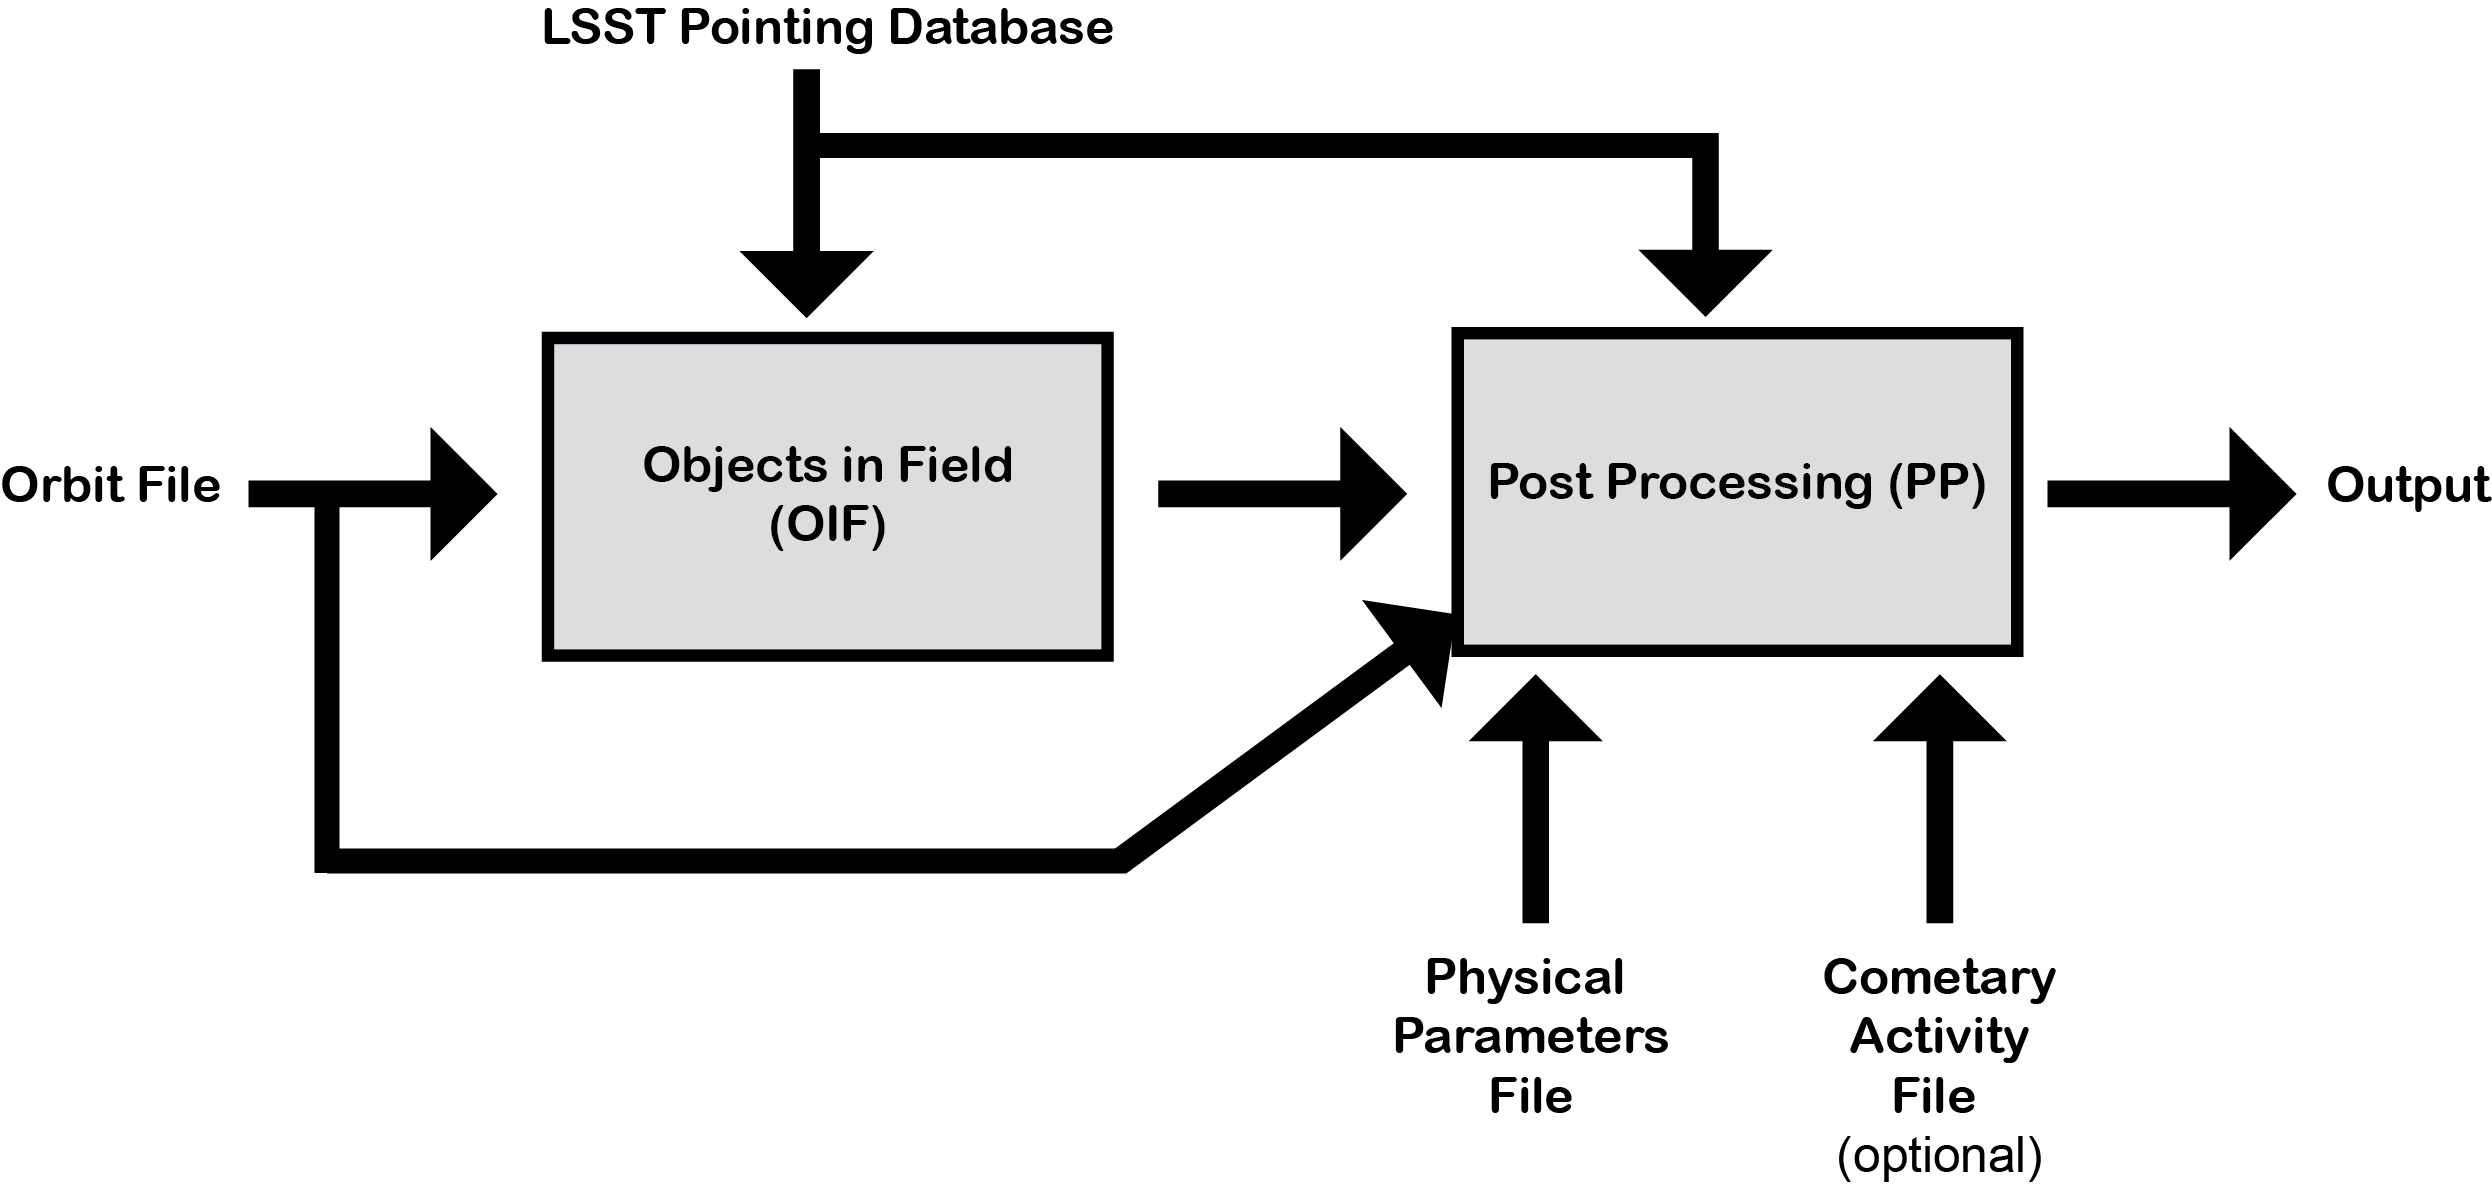
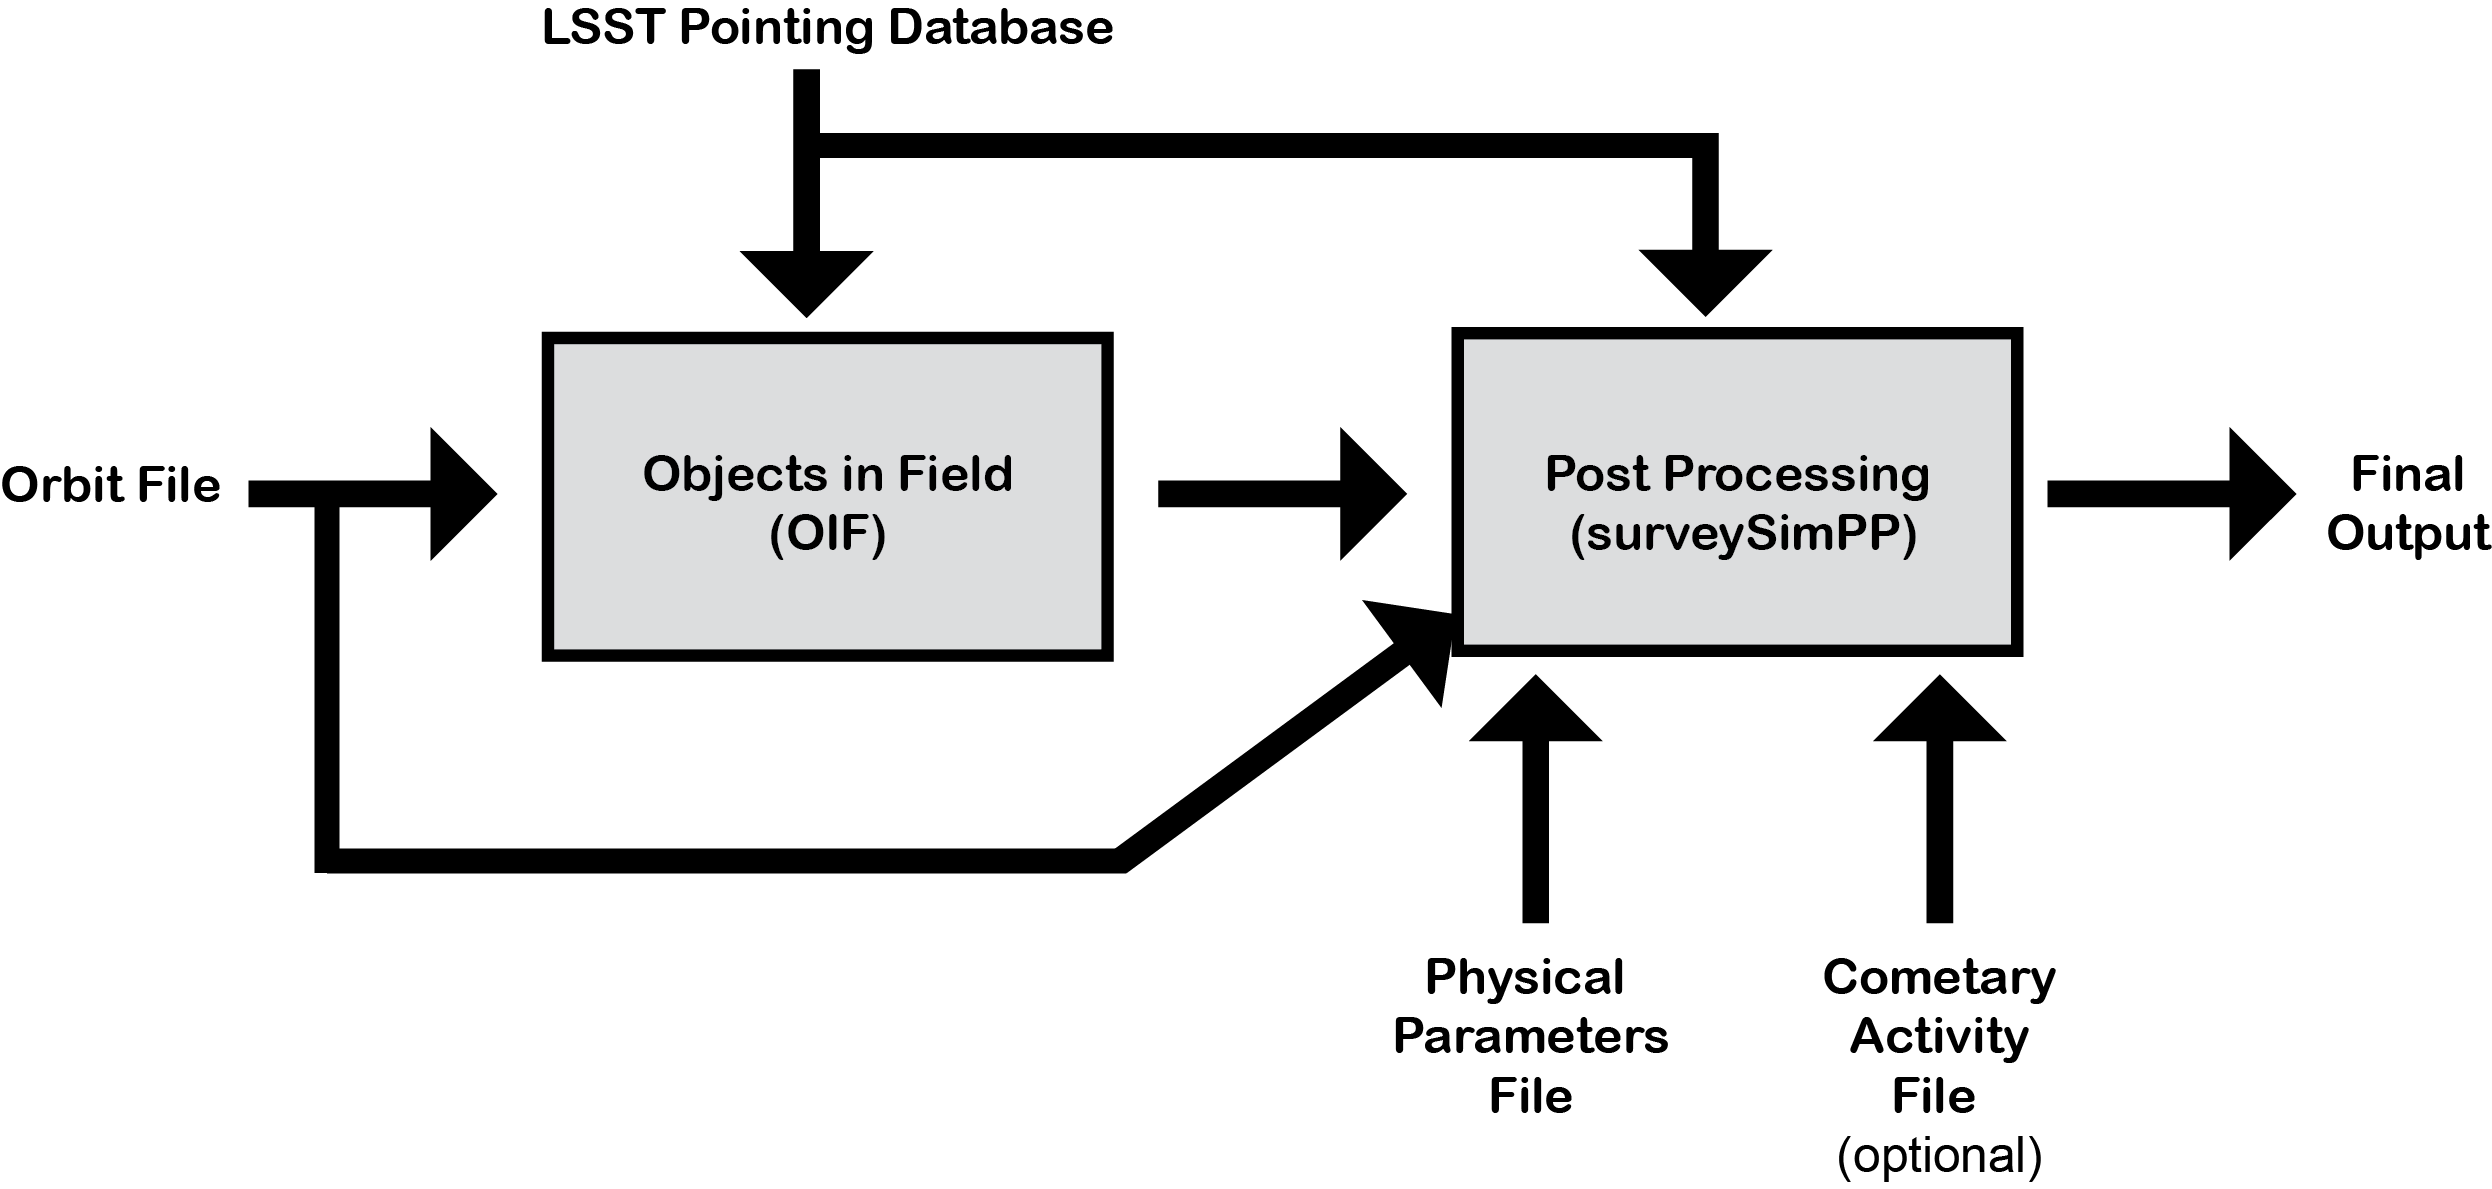
update documentation
update documentation

Changed region(s): [[0.5871, 0.3734, 0.8034, 0.4668], [0.2472, 0.3734, 0.4017, 0.4668], [0.927, 0.3734, 1.0, 0.4668]]

diff --git a/docs/installation.rst b/docs/installation.rst
@@ -3,38 +3,42 @@ Installation
 
 .. note::
    The surveySimPP and OIF python packages are currently pip installable. We hope to have conda installable versions in the near future.
-   
 
+Initial Steps
+-----------------------
+Create a directory to contain the OIF and Survey Simulator repos::
+
+   mkdir survey_sim_pp
+   cd survey_sim_pp
+
+Create a conda environment::
+
+   conda create -n survey_sim_pp -c conda-forge -c mjuric python=3.9 spiceypy openorb numpy pandas matplotlib spice-utils pip
+   conda activate survey_sim_pp
+
+.. tip::
+   We recommend using python version 3.9 with surveySimPP and OIF. This is the version of python we currently use to test our unit tests.
+
+   
+OIF
+-----------------------
 In order to use the Solar System survey simulator, we must first install 
 `Objects in Field <https://github.com/eggls6/objectsInField>`_. 
 This is used to generate candidate detections for an input population of 
 moving objects in a specified list of field pointings.
 
 OIF Requirements
------------------------
-* python 3
-* spiceypy python library
-* pyoorb python library
-* numpy
-* pandas
-* matplotlib
-* NAIF SPICE Utilities
-
-Initial Steps
-----------------------------------
-Create a directory to contain the OIF and Survey Simulator repos::
-
-   mkdir survey_sim_pp
-   cd survey_sim_pp
-   
-Create a conda environment::
-
-   conda create -n survey_sim_pp -c conda-forge -c mjuric python spiceypy openorb numpy pandas matplotlib spice-utils pip
-   conda activate survey_sim_pp
-   
+~~~~~~~~~~~~
+*  python 3 
+*  spiceypy 
+*  openorb 
+*  numpy 
+*  pandas 
+*  matplotlib 
+*  spice-utils
 
 Installing Objects in Field
-----------------------------------
+~~~~~~~~~~~~
 Make sure you are in the directory you want to contain the Survey Simulator repo in::
 
    cd survey_sim_pp
@@ -52,7 +56,7 @@ can be installed by running::
 
    ./bootstrap.sh
    
-. note::
+.. note::
    The bash script downloads and stores the SPICE files to oif/data/  
 
 Next, set up an editable (in-place) development environment::
@@ -72,28 +76,37 @@ If everything has installed correctly, the first few lines from this output will
    S100003Ua,992,59855.012720,232764749.248562,19.381,313.391309,0.093855,-14.189297,-0.001147,302701424.872,-141376977.611,-47258199.518,10.938,16.381,6.838,147675817.300,22607836.793,9798564.669,-5.071,27.085,11.641,22.025168,12.229,3.789
    S100005xa,40,59854.002209,311895722.264139,18.108,312.493375,0.024745,-10.868628,-0.020284,355032405.197,-205593003.122,-50029660.233,8.437,15.234,7.005,148124584.428,20259701.559,8780700.962,-4.542,27.134,11.674,17.656392,14.416,4.726
 
-
+Uninstalling OIF
+~~~~~~~~~~~~
 To uninstall::
 
    python setup.py develop -u
 
-Survey Simulator Requirements
+SurveySimPP
 -----------------------------
-* python 3
-* numpy
-* pandas
-* pytest
-* pytest-cov<2.6.0
-* coveralls
-* setuptools>=42
-* wheel
-* setuptools_scm>=3.4
-* astropy
-* scipy
-* sbpy
+
+Survey Simulator Requirements
+~~~~~~~~~~~~
+*  python 3
+*  numpy
+*  pandas
+*  pytest
+*  pytest-cov<2.6.0
+*  coveralls
+*  setuptools>=42
+*  wheel
+*  setuptools_scm>=3.4
+*  astropy
+*  scipy
+*  sbpy
+*  matplotlib
+
+
+.. note::
+   SurveySimPP currently requires the latest development version of the sbpy package. Pip will install that version of sbpy automatically.
 
 Installing the Survey Simulator Post Processing
-------------------------------------------------
+~~~~~~~~~~~~
 Make sure you are in the directory you want to contain the Survey Simulator repo in::
 
    cd survey_sim_pp
@@ -111,8 +124,7 @@ Next, ensure you are in the main Survey Simulator directory and set up an editab
 
 
 Testing the Installation
-------------------------------------------------
-
+~~~~~~~~~~~~
 To test that the installation was done correctly, run::
 
    surveySimPP -c ./PPConfig.ini -l ./data/test/testcolour.txt -o ./data/test/testorb.des -p ./data/test/oiftestoutput.txt
@@ -121,3 +133,11 @@ The output will appear in a csv file in .data/out (this pathway can be changed i
 The output should look like::
 
    This
+
+Uninstalling surveySimPP
+~~~~~~~~~~~~
+To uninstall::
+
+   python setup.py develop -u
+
+

diff --git a/docs/index.rst b/docs/index.rst
@@ -7,15 +7,17 @@ Welcome to Solar System Survey Simulator Post Processing's documentation!
 =========================================================================
 Welcome to the Solar System Survey Simulator Post Processing documentation. The survey simulator is a 
 Python package for studying Solar System object population statistics. It has been designed 
-with the `Vera C. Rubin Observatory Legacy Survey of Space and Time (LSST) <https://www.lsst.org>`_ in mind,
-but can be adapted to be used with any survey.
+with the `Vera C. Rubin Observatory Legacy Survey of Space and Time (LSST) <https://www.lsst.org>`_ in mind but can be adapted to be used with any survey.
 
 
 This documentation webpage contains an installation guide and an overview of how the survey simulator 
 works. Tutorials are provided which give examples on how to determine if an object is on a field of view, 
 if it is observable with LSST, and specific guides for near earth objects, Jupiter trojans, cometary objects etc.
  
- 
+.. seealso::
+   We have a summary paper (currently in prep) that provides and a broad summary of the software and with significant detail in the methodolgy behind in it. This documentation covers some of the same material but dives deeper into how to install and how to run simulations of what LSST would discover given a model population of synthetic Solar System bodies and a given pointing history for the survey.  
+
+
 
 .. toctree::
    :maxdepth: 2
@@ -39,11 +41,4 @@ if it is observable with LSST, and specific guides for near earth objects, Jupit
    :caption: Documentation:
 
    surveySimPP
-
-Indices and tables
-==================
-
-* :ref:`genindex`
-* :ref:`modindex`
-* :ref:`search`
 

diff --git a/docs/overview.rst b/docs/overview.rst
@@ -27,15 +27,16 @@ pointing database, before being passed into the survey simulator. Here the user 
 file to apply relevant :ref:`filters<Filters>`, which account for the observational biases in LSST. An optional cometary 
 parameter file can also be added here.
 
+
+.. image:: images/OIF.png
+  :width: 800
+  :alt: An overview of the inputs and outputs of the survey simulator post processing code.
+
+
 .. warning::
    We have validated surveySimPP with Objects In Field. If the user chooses to use a different emphemeris engine's calculations as input for surveySimPP, the user has the responsibiilty to check the accuracy of this input.
    
  
-
-.. image:: images/OIF.png
-  :width: 800
-  :alt: An overview of the inputs and outputs of the survey simulator post processing code. 
-  
 
 Design Philosophy 
 ----------------------
